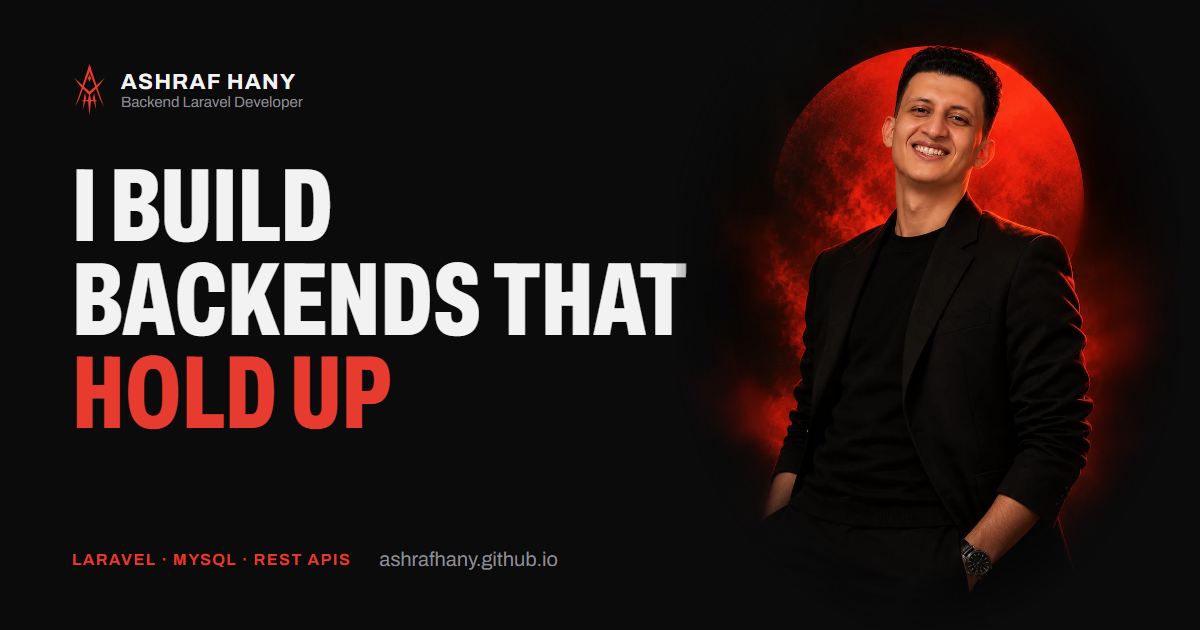
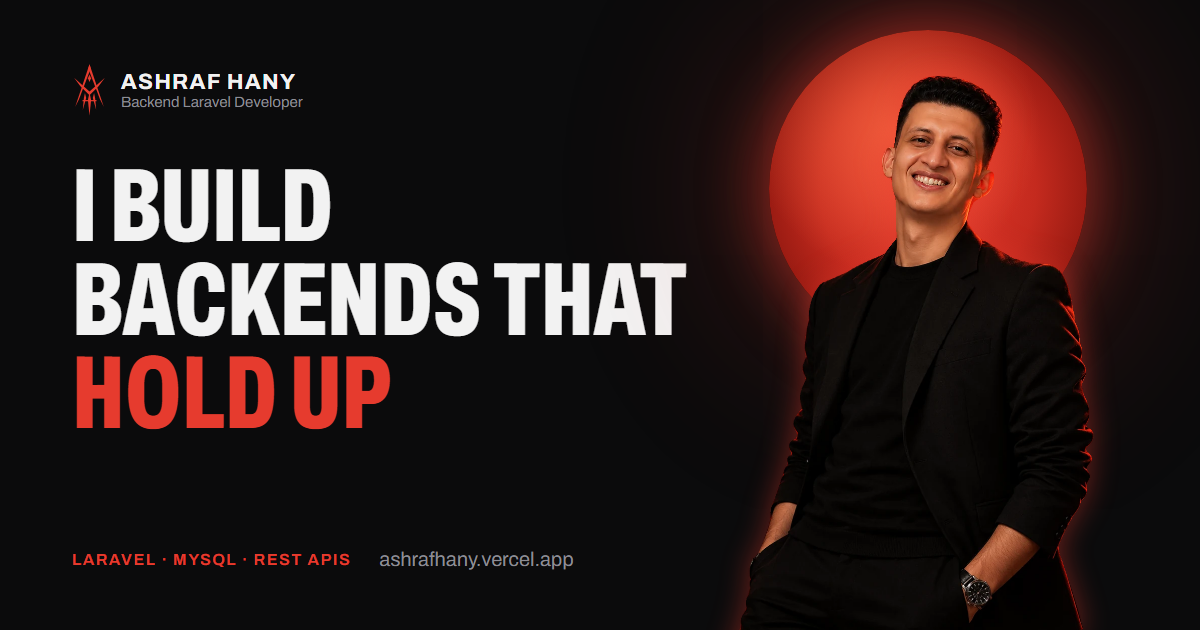
Make ashrafhany.vercel.app the canonical address
Canonical, og:url/og:image, JSON-LD, sitemap, robots.txt and the
redirect stubs now point at the Vercel domain; social card updated.

diff --git a/index.html b/index.html
@@ -5,7 +5,7 @@
   <meta name="viewport" content="width=device-width, initial-scale=1">
   <title>Ashraf Hany — Backend Laravel Developer</title>
   <meta name="description" content="Ashraf Hany — Backend Laravel developer in Cairo. 3+ years building production APIs and backends for web and mobile products.">
-  <link rel="canonical" href="https://ashrafhany.github.io/">
+  <link rel="canonical" href="https://ashrafhany.vercel.app/">
   <meta name="theme-color" content="#0B0B0C">
   <script>
     (function () {
@@ -26,12 +26,12 @@
   <link rel="manifest" href="site.webmanifest">
   <!-- Social -->
   <meta property="og:type" content="website">
-  <meta property="og:url" content="https://ashrafhany.github.io/">
+  <meta property="og:url" content="https://ashrafhany.vercel.app/">
   <meta property="og:title" content="Ashraf Hany — Backend Laravel Developer">
   <meta property="og:description" content="I build backends that hold up: Laravel APIs for live web and mobile products.">
-  <meta property="og:image" content="https://ashrafhany.github.io/assets/brand/social-card-1200x630.png">
+  <meta property="og:image" content="https://ashrafhany.vercel.app/assets/brand/social-card-1200x630.png">
   <meta name="twitter:card" content="summary_large_image">
-  <meta name="twitter:image" content="https://ashrafhany.github.io/assets/brand/social-card-1200x630.png">
+  <meta name="twitter:image" content="https://ashrafhany.vercel.app/assets/brand/social-card-1200x630.png">
 
   <script type="application/ld+json">
   {
@@ -39,8 +39,8 @@
     "@type": "Person",
     "name": "Ashraf Hany",
     "alternateName": "أشرف هاني",
-    "url": "https://ashrafhany.github.io/",
-    "image": "https://ashrafhany.github.io/assets/ashraf-hany.webp",
+    "url": "https://ashrafhany.vercel.app/",
+    "image": "https://ashrafhany.vercel.app/assets/ashraf-hany.webp",
     "jobTitle": "Backend Laravel Developer",
     "email": "mailto:ashrafhany283@gmail.com",
     "address": { "@type": "PostalAddress", "addressLocality": "Cairo", "addressCountry": "EG" },

diff --git a/case-studies/hat-trick.html b/case-studies/hat-trick.html
@@ -5,7 +5,7 @@
   <meta name="viewport" content="width=device-width, initial-scale=1">
   <title>HAT-TRICK case study — Ashraf Hany</title>
   <meta name="description" content="How I built the backend for HAT-TRICK, a football social and scouting platform for players, coaches, academies, agents and scouts.">
-  <link rel="canonical" href="https://ashrafhany.github.io/case-studies/hat-trick.html">
+  <link rel="canonical" href="https://ashrafhany.vercel.app/case-studies/hat-trick.html">
   <meta name="theme-color" content="#0B0B0C">
   <script>
     (function () {
@@ -25,7 +25,7 @@
   <link rel="apple-touch-icon" href="../apple-touch-icon.png">
   <link rel="manifest" href="../site.webmanifest">
   <meta property="og:title" content="HAT-TRICK — backend case study">
-  <meta property="og:image" content="https://ashrafhany.github.io/assets/brand/social-card-1200x630.png">
+  <meta property="og:image" content="https://ashrafhany.vercel.app/assets/brand/social-card-1200x630.png">
 
   <!-- Fonts -->
   <link rel="preconnect" href="https://fonts.googleapis.com">

diff --git a/contact.html b/contact.html
@@ -3,9 +3,9 @@
 <head>
   <meta charset="utf-8">
   <title>Ashraf Hany</title>
-  <link rel="canonical" href="https://ashrafhany.github.io/#contact">
+  <link rel="canonical" href="https://ashrafhany.vercel.app/#contact">
   <meta http-equiv="refresh" content="0; url=/#contact">
   <meta name="robots" content="noindex">
 </head>
-<body><p>This page moved. <a href="/#contact">Continue to ashrafhany.github.io</a>.</p></body>
+<body><p>This page moved. <a href="/#contact">Continue to ashrafhany.vercel.app</a>.</p></body>
 </html>

diff --git a/about.html b/about.html
@@ -3,9 +3,9 @@
 <head>
   <meta charset="utf-8">
   <title>Ashraf Hany</title>
-  <link rel="canonical" href="https://ashrafhany.github.io/#about">
+  <link rel="canonical" href="https://ashrafhany.vercel.app/#about">
   <meta http-equiv="refresh" content="0; url=/#about">
   <meta name="robots" content="noindex">
 </head>
-<body><p>This page moved. <a href="/#about">Continue to ashrafhany.github.io</a>.</p></body>
+<body><p>This page moved. <a href="/#about">Continue to ashrafhany.vercel.app</a>.</p></body>
 </html>

diff --git a/projects.html b/projects.html
@@ -3,9 +3,9 @@
 <head>
   <meta charset="utf-8">
   <title>Ashraf Hany</title>
-  <link rel="canonical" href="https://ashrafhany.github.io/#work">
+  <link rel="canonical" href="https://ashrafhany.vercel.app/#work">
   <meta http-equiv="refresh" content="0; url=/#work">
   <meta name="robots" content="noindex">
 </head>
-<body><p>This page moved. <a href="/#work">Continue to ashrafhany.github.io</a>.</p></body>
+<body><p>This page moved. <a href="/#work">Continue to ashrafhany.vercel.app</a>.</p></body>
 </html>

diff --git a/404.html b/404.html
@@ -6,7 +6,7 @@
   <title>404 — Ashraf Hany</title>
   <meta name="description" content="Page not found.">
   <meta name="robots" content="noindex">
-  <link rel="canonical" href="https://ashrafhany.github.io/404.html">
+  <link rel="canonical" href="https://ashrafhany.vercel.app/404.html">
   <meta name="theme-color" content="#0B0B0C">
   <script>
     (function () {
